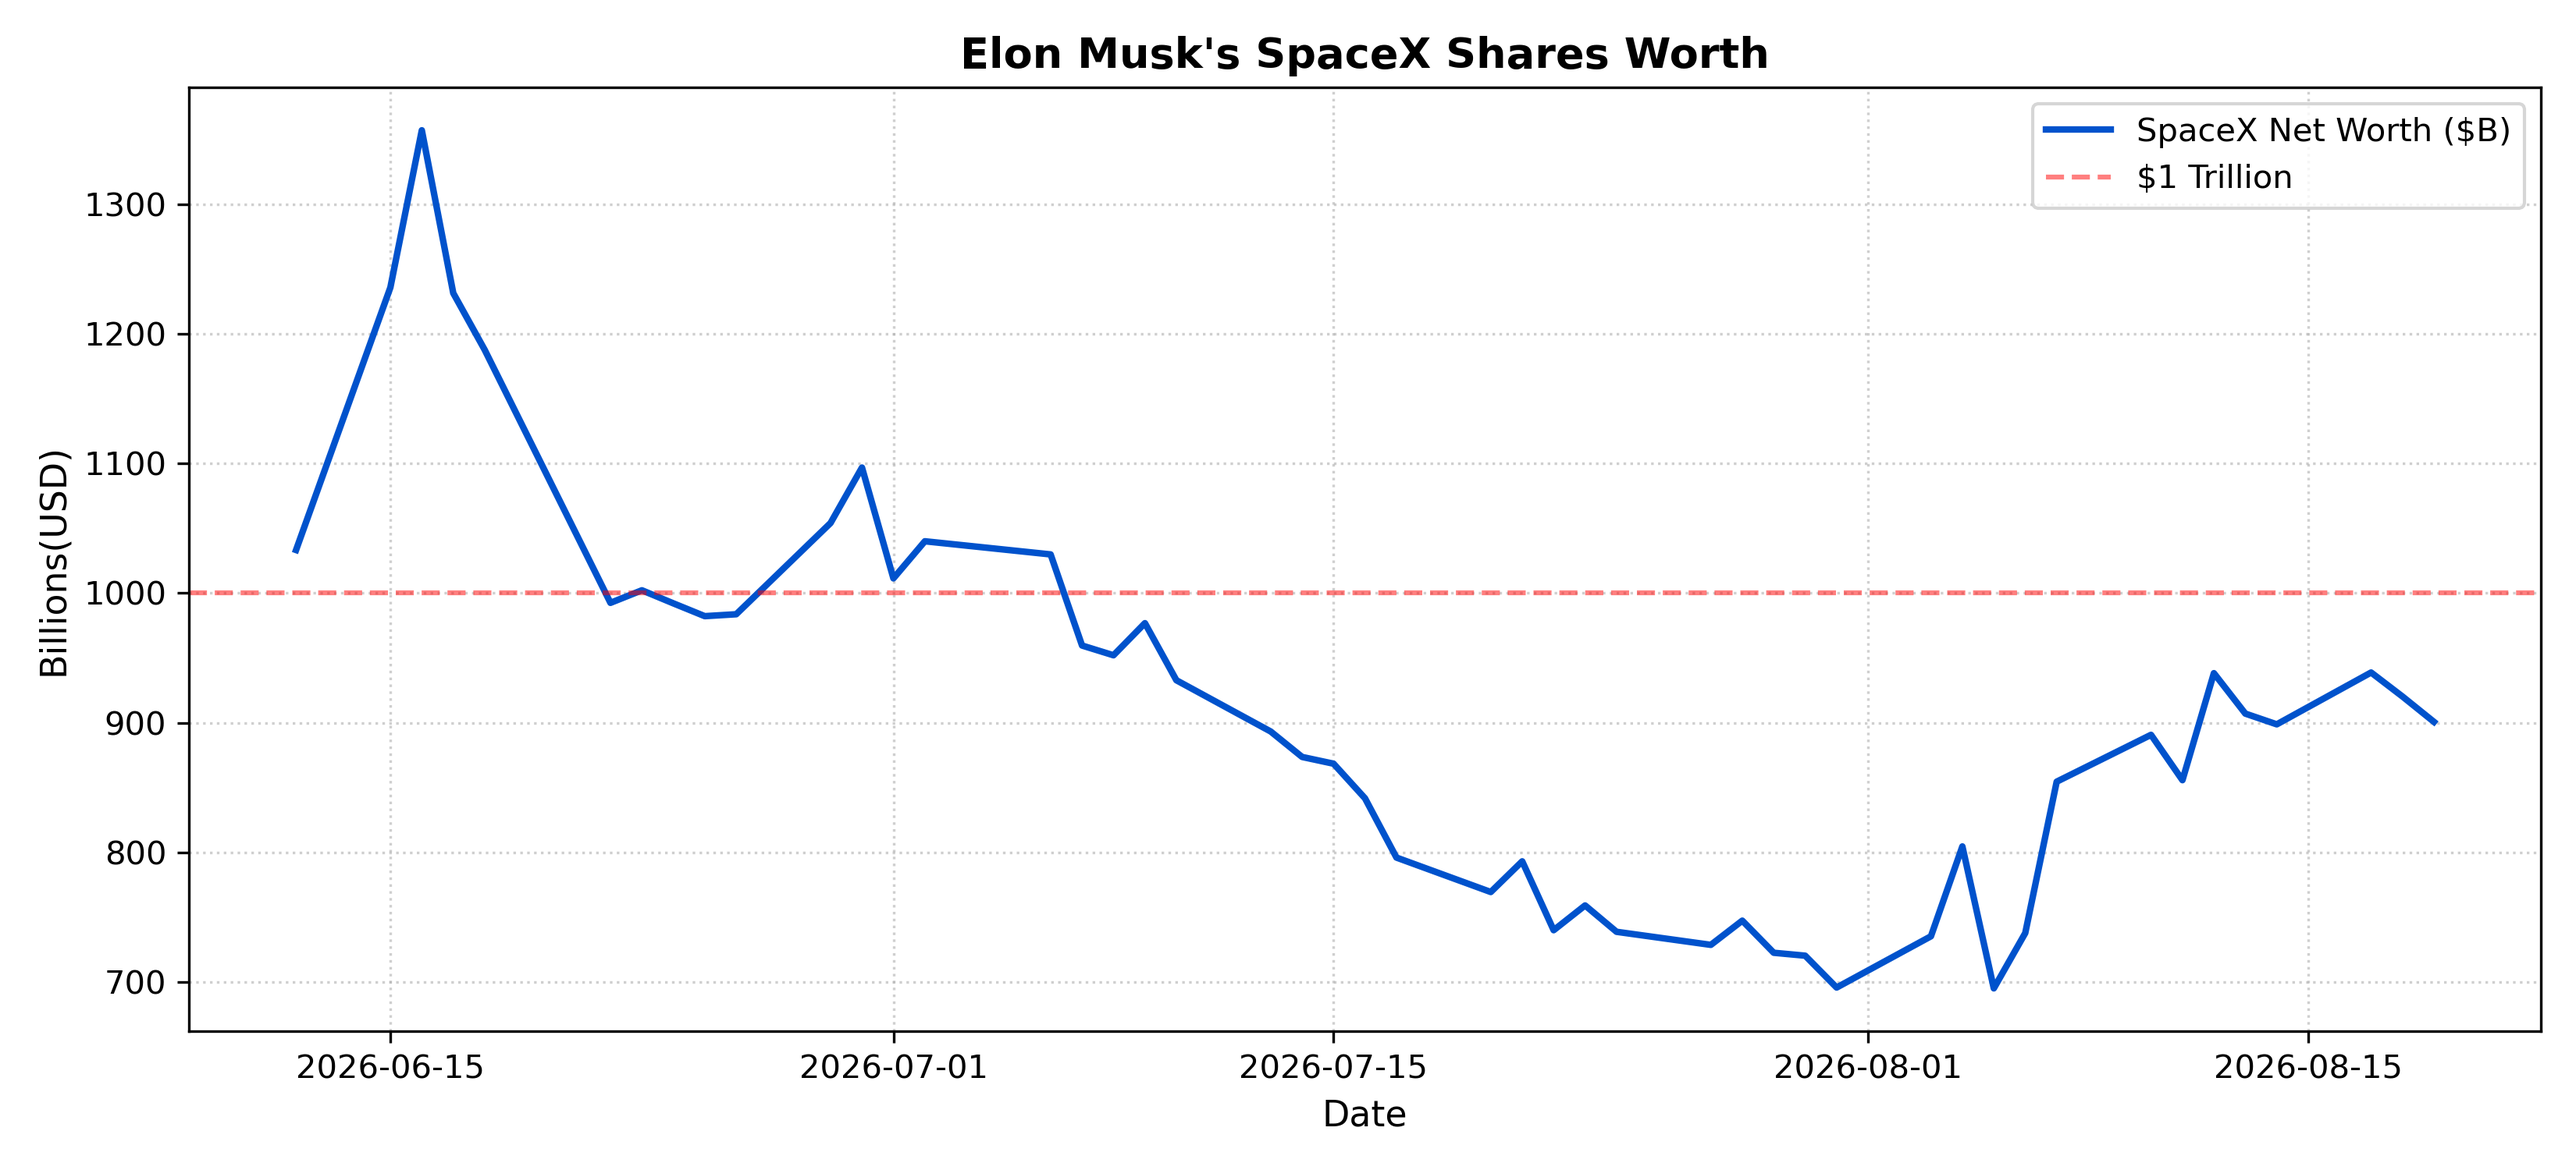
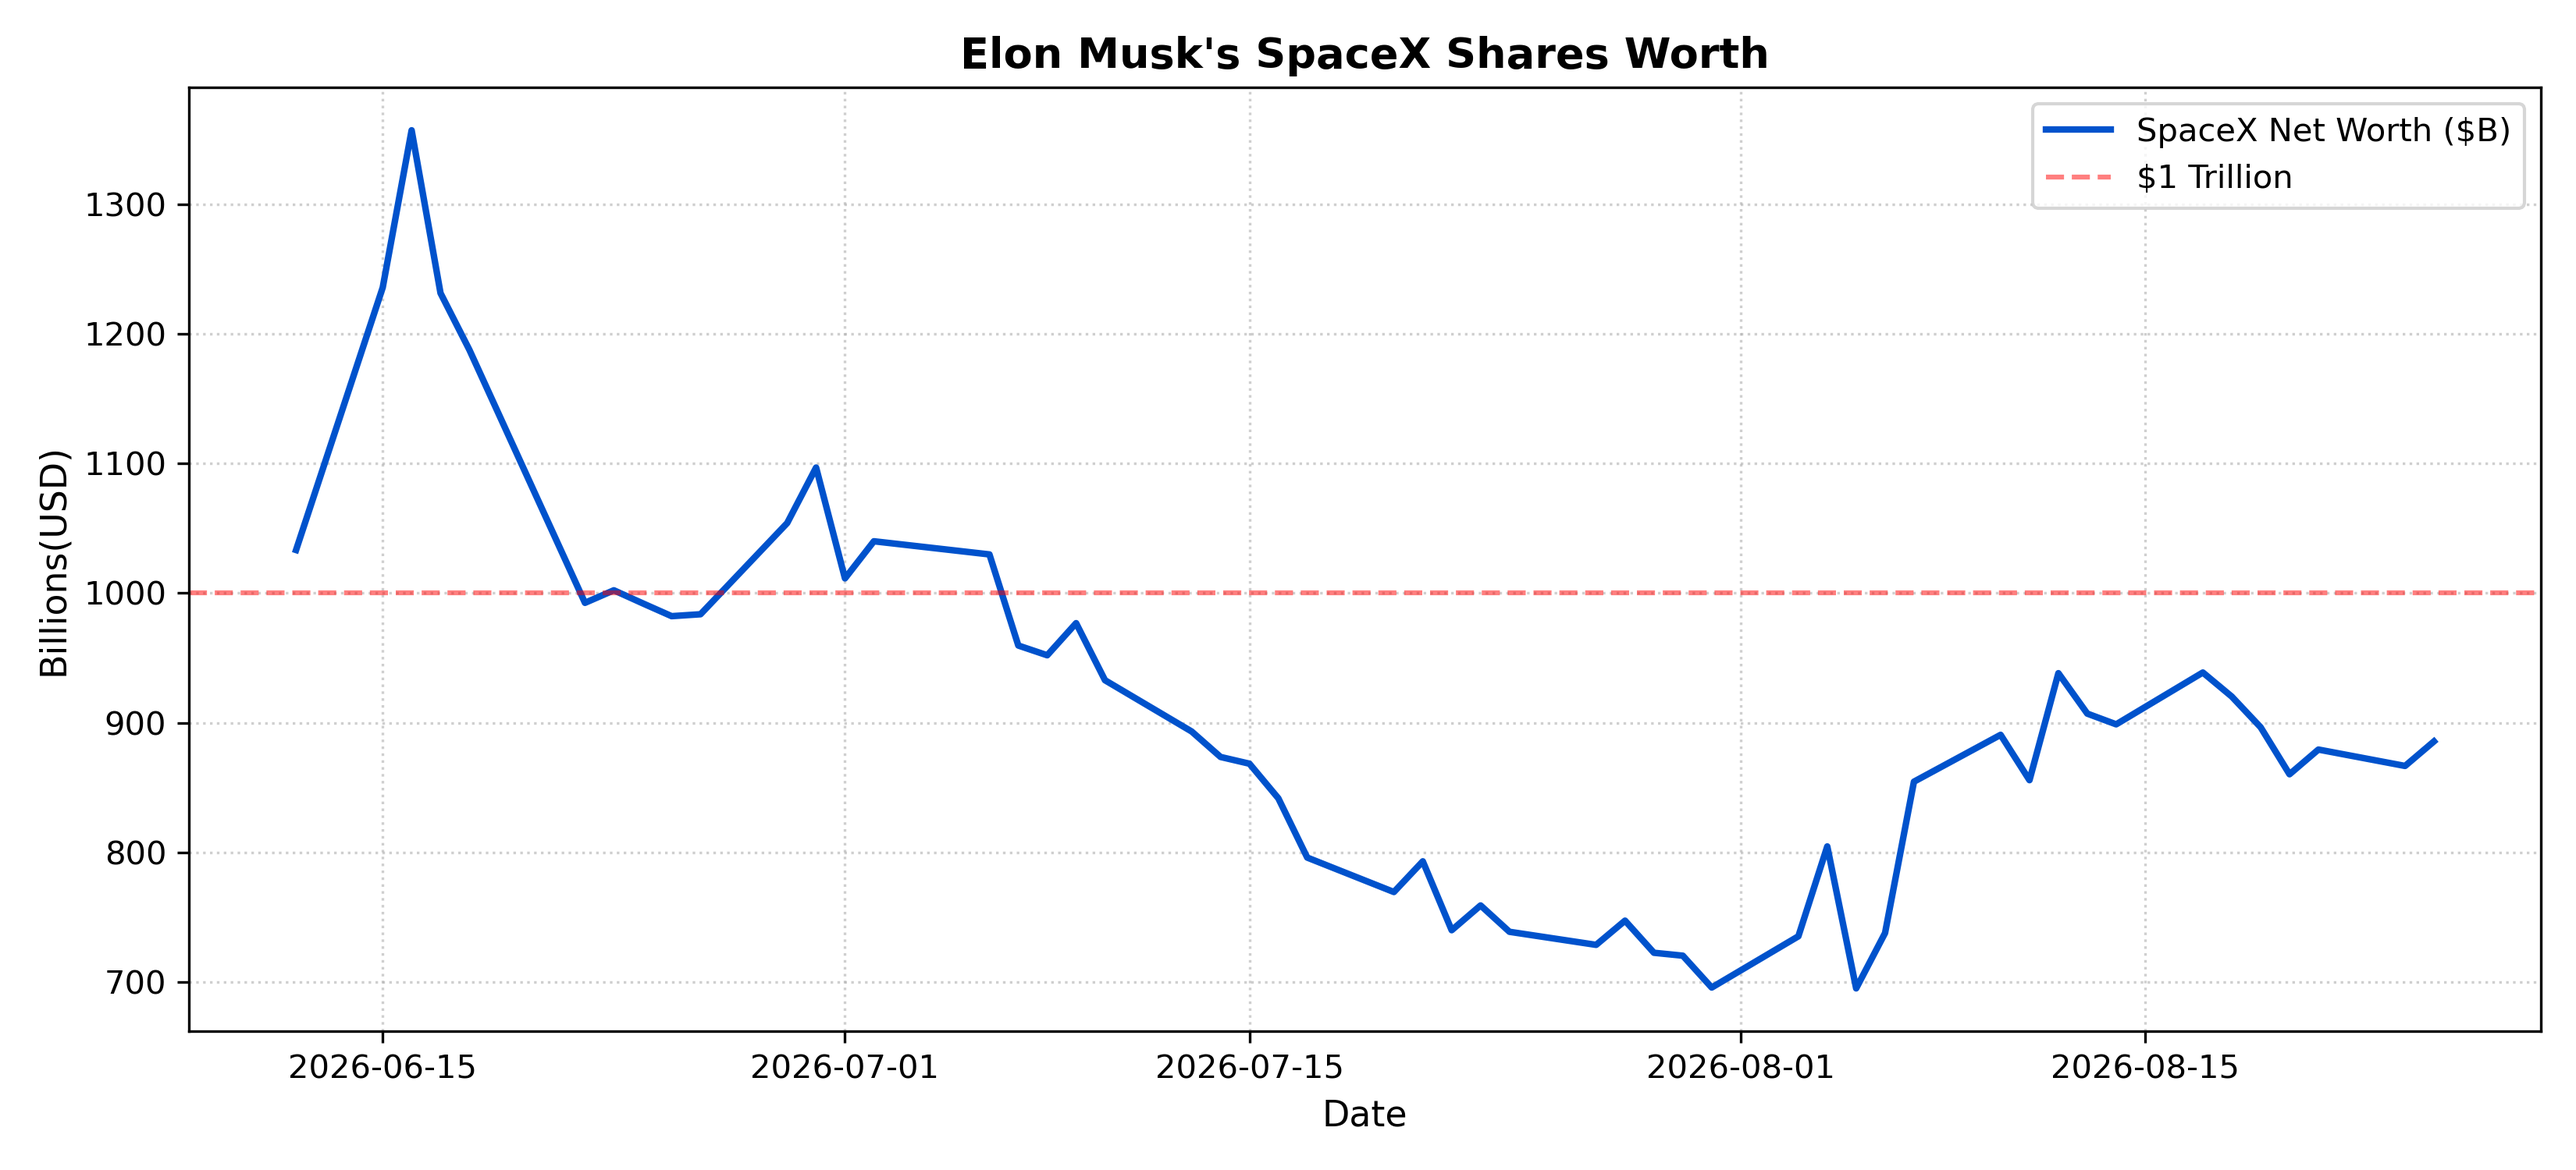
Initial commit

diff --git a/elongate.py b/elongate.py
@@ -5,7 +5,7 @@ import pandas as pd
 # 1. Define the tickers and the timeframe
 tickers = ["TSLA", "SPCX"]
 start_date = "2026-07-01"
-end_date = "2026-08-18"  # Requested inclusive end date
+end_date = "2026-08-25"  # Requested inclusive end date
 
 # yfinance treats the `end` parameter as exclusive. To include `end_date`
 # in the downloaded range, add one day to the end date.

diff --git a/spcx_tsla.py b/spcx_tsla.py
@@ -9,7 +9,7 @@ import yfinance as yf
 
 # Fetch data starting from June 22, 2026
 start_date = "2026-06-12"
-end_date = "2026-08-18"  # Requested inclusive end date 
+end_date = "2026-08-25"  # Requested inclusive end date 
 
 # yfinance treats the `end` parameter as exclusive. To include `end_date`,
 # add one day and use that as the `end` argument.
